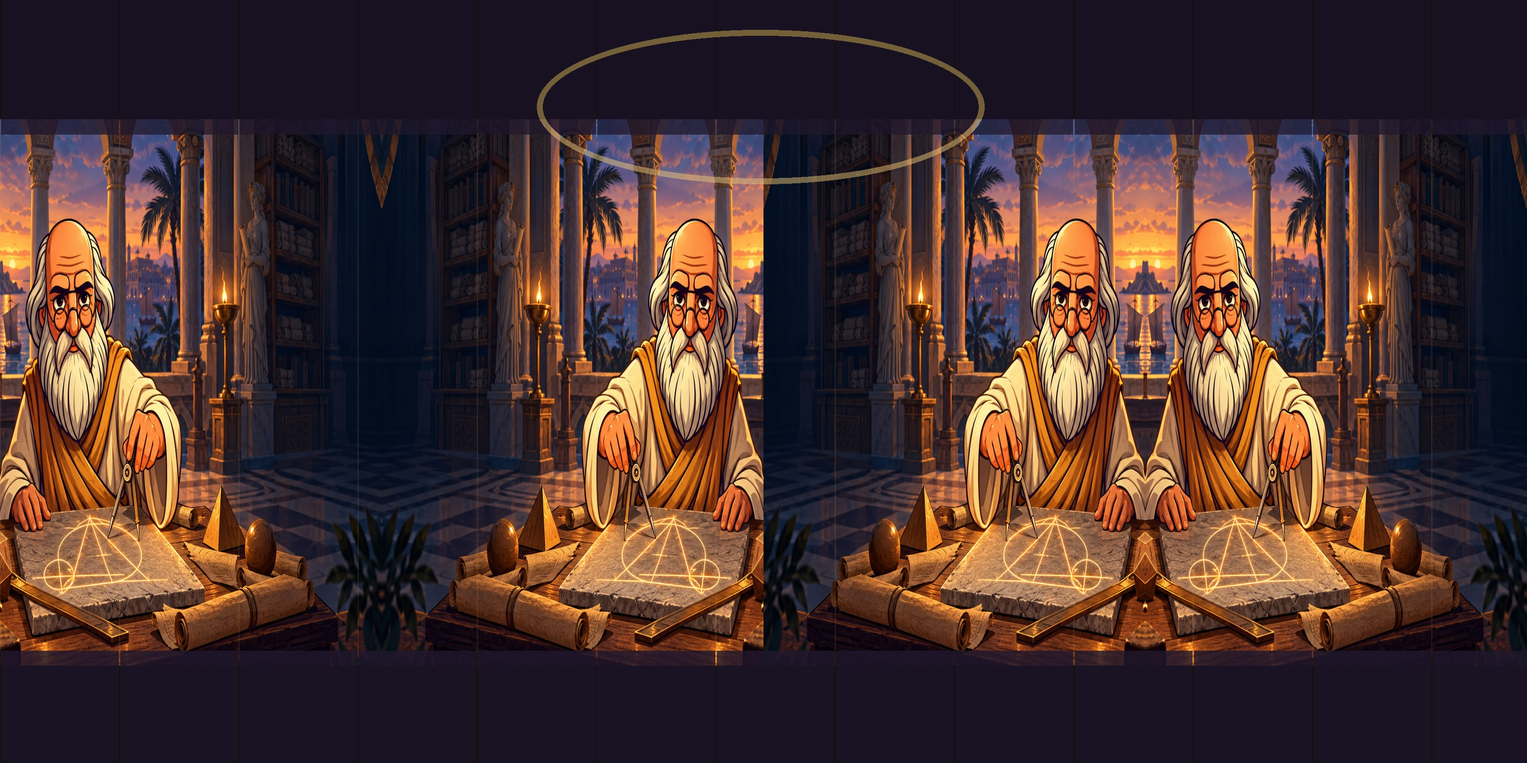
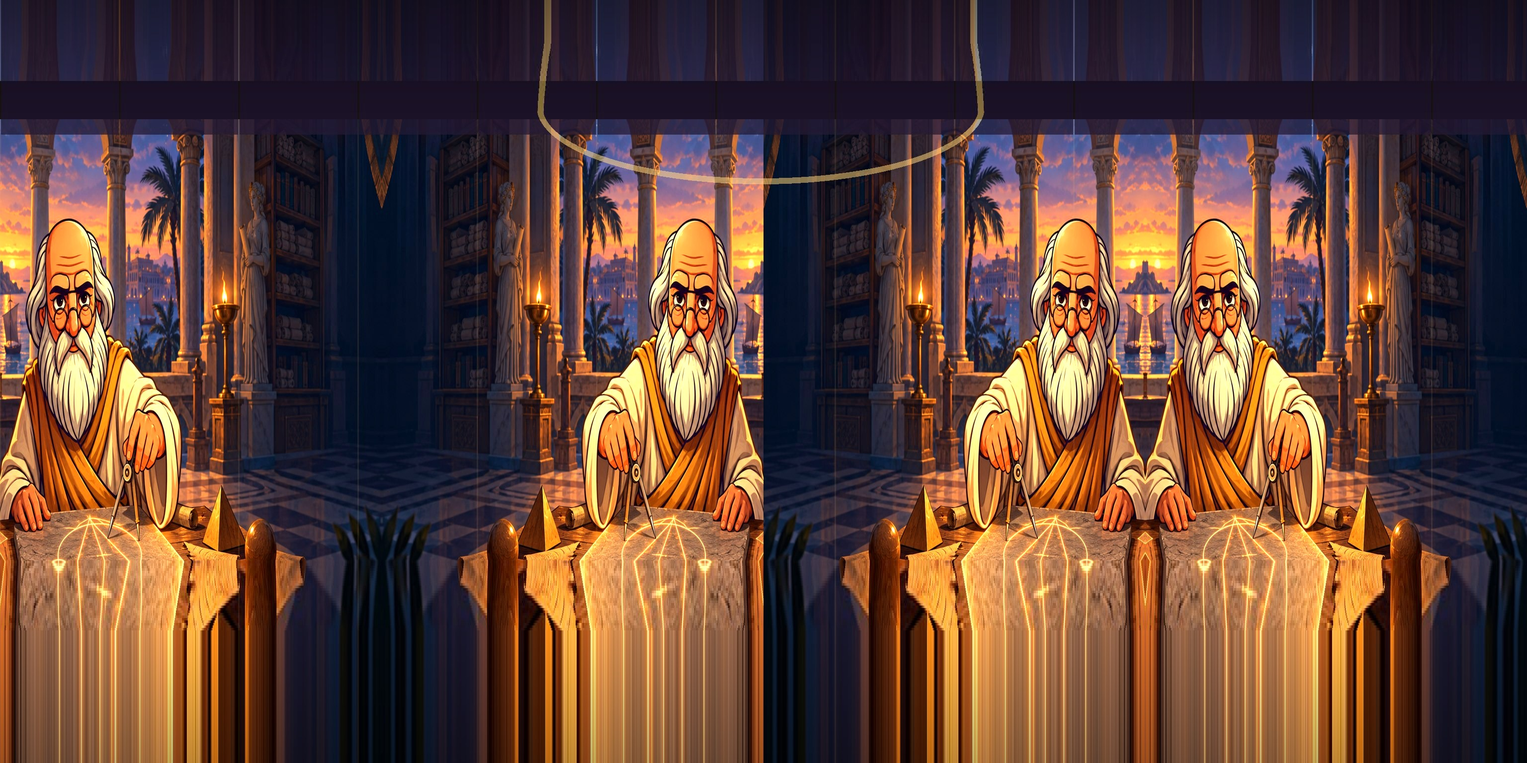
Add files via upload

diff --git a/app.js b/app.js
@@ -25,12 +25,22 @@ function escapeH(s){return String(s).replace(/[&<>"']/g,a=>({'&':'&amp;','<':'&l
 function videoId(v){if(!v)return '';if(/^[a-zA-Z0-9_-]{11}$/.test(v))return v;try{const u=new URL(v);if(u.hostname.includes('youtu.be'))return u.pathname.slice(1);if(u.hostname.includes('youtube.com'))return u.searchParams.get('v')||u.pathname.split('/').pop();}catch{}return ''}
 function playVideo(key,done){const id=videoId(C[key]);const title={video1:'Definizione e Teorema fondamentale',video2:'I numeri primi sono infiniti',video3:'Come si trovano i numeri primi',video4:'Eratostene: approfondimento',video5:'Secondo filmato di Eratostene',video6:'Multipli e divisori'}[key]||'Video';let body=id?`<h2>${title}</h2><iframe class="video" src="https://www.youtube-nocookie.com/embed/${encodeURIComponent(id)}?rel=0" title="${title}" allow="accelerometer; autoplay; encrypted-media; gyroscope; picture-in-picture" referrerpolicy="strict-origin-when-cross-origin" allowfullscreen></iframe><p>Chiudi con ✕ per tornare all’avventura.</p>`:`<div class="videoFallback"><h2>${title}</h2><p>Questo link YouTube non è ancora stato inserito nel file <code>config.js</code>.</p><p>In questa versione di montaggio puoi comunque esplorare la stanza successiva.</p></div>`;
 modal(body,{wide:true,close:()=>{if(done){watched[key]=true;render()}}});}
-function travel(next){if(changing||next<0||next>=scenes.length)return;changing=true;if(viewer){viewer.dispose();viewer=null}const t=$('#transition');t.classList.remove('hide');setTimeout(()=>{index=next;render()},1220);setTimeout(()=>{t.classList.add('hide');changing=false},2280)}
+function travel(next){if(changing||next<0||next>=scenes.length)return;changing=true;if(viewer){viewer.dispose();viewer=null}const t=$('#transition');const flight=t.querySelector('.flight');const scene=scenes[next];flight.style.backgroundImage=scene.bg?`url('${A+scene.bg}')`: `url('${A}atrio-primi.png')`;t.classList.remove('hide');setTimeout(()=>{index=next;render()},1450);setTimeout(()=>{t.classList.add('hide');changing=false},2600)}
 function render(){visited.add(index);let s=scenes[index];$('#stageLabel').textContent=s.name;$('#progress').textContent=`✦ ${visited.size} / ${scenes.length}`;stage.innerHTML='';if(s.kind==='video')renderVideoScene(s);else if(s.kind==='pano')renderPanoScene(s);else if(s.kind==='embed')renderEmbed();else renderFinal();}
-function renderVideoScene(s){let root=el('section','scene');root.style.backgroundImage=`url("${A+s.bg}")`;root.innerHTML=`<div class="intro"><h1>${escapeH(s.title)}</h1><p>${escapeH(s.desc)}</p><p><b>Obiettivi:</b> riconoscere primi e composti, comprendere la scomposizione unica in fattori primi e le relazioni tra multipli e divisori.</p></div>`;let wrap=el('div','portal-wrap'),isWatched=!!watched[s.video],p=el('button','portal');p.setAttribute('aria-label',isWatched?'Attraversa il portale':'Apri la lezione video');p.innerHTML=`<span class="preview" style="background-image:url('${A+(isWatched?s.preview:s.bg)}')"></span><span class="playmark">${isWatched?'✧':'▶'}</span>`;p.onclick=()=>isWatched?travel(index+1):playVideo(s.video,true);wrap.append(p,el('div','portal-label',isWatched?'✦ Attraversa il portale • entra nella stanza':'▶ Tocca il cerchio per guardare la lezione'));root.append(wrap);let aside=el('div','side-actions');aside.append(el('div','notice',isWatched?'Hai aperto la lezione. Ora il portale mostra la stanza successiva.':'Guarda il video, chiudilo con ✕ e torna al cerchio trasformato in portale.'));aside.append(btn('Riapri il video',()=>playVideo(s.video,true),'btn alt'));root.append(aside);stage.append(root)}
+function renderVideoScene(s){let root=el('section','scene');root.style.backgroundImage=`url("${A+s.bg}")`;
+const intro=el('div','intro');intro.innerHTML=`<button class="intro-close" aria-label="Chiudi obiettivi">×</button><h1>${escapeH(s.title)}</h1><p>${escapeH(s.desc)}</p><p><strong>OBIETTIVO:</strong> comprendere i numeri primi, la scomposizione e le relazioni tra multipli e divisori.</p><p><strong>DA SAPERE:</strong> definizione di numero primo ed enunciato del Teorema fondamentale dell’aritmetica.</p>`;
+const tab=btn('ⓘ Obiettivi',()=>{intro.classList.remove('hide');tab.classList.add('hide')},'intro-reopen hide');
+intro.querySelector('.intro-close').onclick=()=>{intro.classList.add('hide');tab.classList.remove('hide')};root.append(intro,tab);
+let wrap=el('div','portal-wrap'),isWatched=!!watched[s.video],p=el('button','portal');p.setAttribute('aria-label',isWatched?'Attraversa il portale':'Apri la lezione video');p.innerHTML=`<span class="preview" style="background-image:url('${A+(isWatched?s.preview:s.bg)}')"></span><span class="playmark">${isWatched?'✧':'▶'}</span>`;p.onclick=()=>isWatched?travel(index+1):playVideo(s.video,true);wrap.append(p,el('div','portal-label',isWatched?'✦ Clicca per entrare nella stanza':'▶ Clicca per guardare la lezione'));root.append(wrap);let aside=el('div','side-actions');aside.append(btn('Riapri il video',()=>playVideo(s.video,true),'btn alt'));root.append(aside);stage.append(root)}
+
 const factText=n=>n<2?'Non ho una scomposizione in fattori primi.':`Sono ${factor(n).join(' × ')}.`;
 function makeMarkers(group){if(group==='primes'){
-const p=[1,2,3,5,7,11,13,17,19,23],c=[4,6,8,9,10,15,16,18,20];return [...p.map((n,i)=>({label:n,lon:-165+i*34,lat:5+(i%3)*-11,type:'prime',text:n===1?'Sono 1: non sono né primo né composto.':n===2?'Sono 2: l’unico numero primo pari.':n===3?'Sono 3: il più piccolo primo dispari.':`Sono ${n}: sono divisibile soltanto per 1 e per me stesso.`})),...c.map((n,i)=>({label:n,lon:-152+i*38,lat:-24-(i%2)*12,type:'comp',text:`Sono ${n}: ${factText(n)} Sono composto perché ho più di due divisori positivi.`}))]}
+// Coordinates of actual characters in panorama-primi.jpg, 2048 × 1024. Interactive targets are invisible overlays, not separate numbered pills.
+const xy=[
+[1,222,532],[2,371,477],[3,431,484],[5,521,478],[7,385,346],[11,434,386],[13,475,393],[17,424,322],[19,370,418],[23,515,404],
+[4,813,382],[6,846,388],[8,1278,371],[9,1303,480],[10,789,482],[15,791,536],[16,1329,540],[18,1310,412],[20,1351,480]];
+const texts={1:'Sono 1: non sono né primo né composto.',2:'Sono 2, l’unico numero primo pari.',3:'Sono 3, il più piccolo primo dispari.'};
+return xy.map(([n,x,y])=>({label:String(n),lon:90-x/2048*360,lat:90-y/1024*180,type:'numberhit',text:texts[n]||(prime(n)?`Sono ${n}: ho esattamente due divisori positivi, 1 e me stesso.`:`Sono ${n}: ${factText(n)} Sono composto, perché ho più di due divisori positivi.`)}));}
 if(group==='euclid')return [
 {label:'✦',lon:-56,lat:3,text:'Euclide scrisse gli Elementi. Nel libro IX si trova una dimostrazione dell’infinità dei numeri primi.'},
 {label:'∞',lon:-20,lat:0,text:'I numeri primi sono infiniti: nessun elenco finito può contenerli tutti.'},
@@ -49,17 +59,17 @@ return [
 {label:24,lon:68,lat:8,text:'Sono 24: sono multiplo di 6, 8 e 12. Sono divisore di 48.'},
 {label:1,lon:110,lat:8,text:'Sono 1: divisore di ogni numero naturale positivo, ma non sono primo né composto.'},
 {label:9,lon:155,lat:9,text:'Sono 9: sono multiplo di 3 e divisore di 18, 27 e 36.'}];}
-class Pano{constructor(node,file){this.node=node;this.node.innerHTML='';this.scene=new THREE.Scene();this.camera=new THREE.PerspectiveCamera(72,node.clientWidth/node.clientHeight,1,1100);this.renderer=new THREE.WebGLRenderer({antialias:true});this.renderer.setPixelRatio(Math.min(devicePixelRatio||1,2));this.renderer.setSize(node.clientWidth,node.clientHeight);node.append(this.renderer.domElement);this.lon=0;this.lat=0;this.drag=false;this.fov=72;this.markerObjects=[];this.listeners=[];let geo=new THREE.SphereGeometry(500,64,44);geo.scale(-1,1,1);this.mat=new THREE.MeshBasicMaterial({color:0x101835});this.sphere=new THREE.Mesh(geo,this.mat);this.scene.add(this.sphere);new THREE.TextureLoader().load(A+file,tex=>{if(this.dead){tex.dispose();return}this.mat.map=tex;this.mat.needsUpdate=true},undefined,()=>{this.node.insertAdjacentHTML('beforeend','<p>Immagine panoramica non caricata.</p>')});this.install();this.tick()}
+class Pano{constructor(node,file){this.node=node;this.node.innerHTML='';this.scene=new THREE.Scene();this.camera=new THREE.PerspectiveCamera(72,node.clientWidth/node.clientHeight,1,1100);this.renderer=new THREE.WebGLRenderer({antialias:true});this.renderer.outputEncoding=THREE.sRGBEncoding;this.renderer.setPixelRatio(Math.min(devicePixelRatio||1,2));this.renderer.setSize(node.clientWidth,node.clientHeight);node.append(this.renderer.domElement);this.lon=0;this.lat=0;this.drag=false;this.fov=72;this.markerObjects=[];this.listeners=[];let geo=new THREE.SphereGeometry(500,64,44);geo.scale(-1,1,1);this.mat=new THREE.MeshBasicMaterial({color:0x101835});this.sphere=new THREE.Mesh(geo,this.mat);this.scene.add(this.sphere);new THREE.TextureLoader().load(A+file,tex=>{if(this.dead){tex.dispose();return}tex.encoding=THREE.sRGBEncoding;this.mat.map=tex;this.mat.needsUpdate=true},undefined,()=>{this.node.insertAdjacentHTML('beforeend','<p>Immagine panoramica non caricata.</p>')});this.install();this.tick()}
 listen(node,event,fn,opts){node.addEventListener(event,fn,opts);this.listeners.push([node,event,fn,opts])}
 install(){const c=this.node;let old=null;this.listen(c,'pointerdown',e=>{if(e.target.closest('button'))return;this.drag=true;old=[e.clientX,e.clientY];c.classList.add('dragging');c.setPointerCapture(e.pointerId)});this.listen(c,'pointermove',e=>{if(!this.drag||!old)return;let dx=e.clientX-old[0],dy=e.clientY-old[1];this.lon-=dx*.13;this.lat=Math.max(-60,Math.min(60,this.lat+dy*.13));old=[e.clientX,e.clientY]});this.listen(c,'pointerup',()=>{this.drag=false;old=null;c.classList.remove('dragging')});this.listen(c,'wheel',e=>{e.preventDefault();this.fov=Math.max(32,Math.min(98,this.fov+e.deltaY*.05));this.camera.fov=this.fov;this.camera.updateProjectionMatrix()},{passive:false});this.ro=new ResizeObserver(()=>{if(this.dead)return;let w=c.clientWidth,h=c.clientHeight;if(w&&h){this.camera.aspect=w/h;this.camera.updateProjectionMatrix();this.renderer.setSize(w,h)}});this.ro.observe(c)}
-markers(items,onClick){this.markerObjects=items.map((item)=>{const b=btn(String(item.label),()=>onClick(item),'pano-marker '+(item.type||'info'));b.setAttribute('aria-label','Esplora: '+item.label);this.node.append(b);return {item,b}})}
+markers(items,onClick){this.markerObjects=items.map((item)=>{const b=btn(item.type==='numberhit'?'':String(item.label),()=>onClick(item),'pano-marker '+(item.type||'info'));b.setAttribute('aria-label','Esplora: '+item.label);this.node.append(b);return {item,b}})}
 tick(){if(this.dead)return;let phi=THREE.MathUtils.degToRad(90-this.lat),theta=THREE.MathUtils.degToRad(this.lon);this.camera.lookAt(new THREE.Vector3(500*Math.sin(phi)*Math.cos(theta),500*Math.cos(phi),500*Math.sin(phi)*Math.sin(theta)));this.camera.updateMatrixWorld();let w=this.node.clientWidth,h=this.node.clientHeight;for(const {item,b} of this.markerObjects){let p=THREE.MathUtils.degToRad(90-(item.lat||0)),t=THREE.MathUtils.degToRad(item.lon);const v=new THREE.Vector3(490*Math.sin(p)*Math.cos(t),490*Math.cos(p),490*Math.sin(p)*Math.sin(t));const cam=v.clone().applyMatrix4(this.camera.matrixWorldInverse);if(cam.z>=0){b.style.display='none';continue}v.project(this.camera);if(Math.abs(v.x)>1.07||Math.abs(v.y)>1.08){b.style.display='none';continue}b.style.display='block';b.style.left=((v.x+1)*.5*w)+'px';b.style.top=((-v.y+1)*.5*h)+'px'}this.renderer.render(this.scene,this.camera);this.raf=requestAnimationFrame(()=>this.tick())}
 zoom(d){this.fov=Math.max(32,Math.min(98,this.fov+d));this.camera.fov=this.fov;this.camera.updateProjectionMatrix()}
 dispose(){this.dead=true;cancelAnimationFrame(this.raf);this.ro?.disconnect();this.listeners.forEach(([n,e,f,o])=>n.removeEventListener(e,f,o));this.mat.map?.dispose();this.mat.dispose();this.sphere.geometry.dispose();this.renderer.dispose();this.renderer.domElement.remove()}}
-function renderPanoScene(s){const node=el('div','pano');stage.append(node);if(!window.THREE){node.innerHTML=`<div class="scene" style="background-image:url('${A+s.bg}')"><div class="intro"><h2>Impossibile caricare il visore 360°</h2><p>Serve la libreria Three.js e una connessione a Internet.</p></div></div>`;return}viewer=new Pano(node,s.bg);const hint=el('div','pano-hint','Trascina per esplorare · scorri/pizzica per zoomare · clicca i simboli');node.append(hint);setTimeout(()=>hint.remove(),7000);
+function renderPanoScene(s){const node=el('div','pano');stage.append(node);if(!window.THREE){node.innerHTML=`<div class="scene" style="background-image:url('${A+s.bg}')"><div class="intro"><h2>Impossibile caricare il visore 360°</h2><p>Serve la libreria Three.js e una connessione a Internet.</p></div></div>`;return}viewer=new Pano(node,s.bg);const hint=el('div','pano-hint','Trascina per esplorare · clicca direttamente sui numeri · scorri per zoomare');node.append(hint);setTimeout(()=>hint.remove(),7000);
 const markers=makeMarkers(s.group);const panel=el('div','pano-panel',`<h2>${escapeH(s.title)}</h2><p id="factInfo">Sposta lo sguardo e scopri gli hotspot nascosti nella scena.</p>`);node.append(panel);viewer.markers(markers,item=>{const p=$('#factInfo');if(p)p.textContent=item.text});const controls=el('div','pano-controls');node.append(controls);controls.append(btn('＋ Zoom',()=>viewer.zoom(-10),'mini'),btn('－ Zoom',()=>viewer.zoom(10),'mini'));
 if(s.group==='eratosthenes'){controls.append(btn('▶ Video Eratostene',()=>playVideo('video4'),'mini'));if(C.video5)controls.append(btn('▶ Secondo video',()=>playVideo('video5'),'mini'))}
-if(s.quiz){controls.append(btn(quizPassed[index]?'✓ Quiz superato · prosegui':'✦ Affronta 5 quesiti',()=>quizPassed[index]?travel(index+1):startQuiz(s.quiz,5,3,()=>{quizPassed[index]=true;travel(index+1)}),'btn'));}else controls.append(btn('✧ Attraversa il passaggio',()=>travel(index+1),'btn'));
+if(s.quiz){controls.append(btn(quizPassed[index]?'✓ Quiz superato · prosegui':'✦ Affronta 5 quesiti',()=>quizPassed[index]?travel(index+1):startQuiz(s.quiz,5,3,()=>{quizPassed[index]=true;travel(index+1)}),'btn'));}else if(s.group==='euclid'){controls.append(btn('➜ Verso il castello di Arsinoe',()=>travel(4),'btn'));}else if(s.group==='eratosthenes'){controls.append(btn('➜ Entra nel crivello interattivo',()=>travel(6),'btn'));}else controls.append(btn('✧ Prosegui',()=>travel(index+1),'btn'));
 }
 function renderEmbed(){let root=el('div','scene');root.innerHTML=`<div class="intro" style="top:63px;max-width:none"><h2>Il crivello di Eratostene</h2><p>Sperimenta: quali numeri restano quando elimini progressivamente i multipli?</p></div><iframe id="crivello" class="embed embedScene" title="Crivello Matica" loading="eager" src="${escapeH(C.crivello)}"></iframe>`;let bar=el('div','embedToolbar');bar.append(btn('Apri in un’altra scheda',()=>window.open(C.crivello,'_blank','noopener'),'btn alt'));bar.append(btn('✧ Ho esplorato il crivello · prosegui',()=>travel(index+1)));root.append(bar);stage.append(root)}
 function createPrimeQuiz(){const nums=shuffle(Array.from({length:30},(_,i)=>i+1));let selected=nums.slice(0,5);if(!selected.includes(1)&&Math.random()<.5)selected[0]=1;return selected.map((n,i)=>{if(n===1||prime(n)||i%2===0)return {type:'choice',text:`Il numero ${n} è…`,choices:['Primo','Composto','Né primo né composto'],correct:n===1?2:prime(n)?0:1,explanation:n===1?'1 ha un solo divisore positivo.':prime(n)?`${n} ha esattamente due divisori positivi.`:`${n} = ${factor(n).join(' × ')}.`};return {type:'factors',text:`Scomponi ${n} in fattori primi. Scrivi per esempio 2×3×3.`,n,explanation:`${n} = ${factor(n).join(' × ')}. L’ordine dei fattori non conta.`}})}

diff --git a/style.css b/style.css
@@ -1,1 +1,19 @@
 :root{--gold:#ffd88b;--navy:#080f29;--ink:#fef3d4;--glass:rgba(10,15,39,.82)}*{box-sizing:border-box}html,body{height:100%;margin:0}body{font-family:Trebuchet MS,Segoe UI,sans-serif;color:var(--ink);background:var(--navy);overflow:hidden}button,input{font:inherit}button{cursor:pointer}button:disabled{opacity:.46;cursor:not-allowed}.hide{display:none!important}.top{height:58px;position:absolute;z-index:8;top:0;left:0;right:0;display:flex;justify-content:space-between;align-items:center;padding:0 22px;background:linear-gradient(#050919e8,#05091988);gap:8px}.brand{color:var(--gold);font-weight:900;letter-spacing:.12em;white-space:nowrap}.brand small{font-size:.7em;color:#fff;letter-spacing:.06em;margin-left:12px}.hud{display:flex;gap:15px;align-items:center;font-size:12px}#stageLabel{max-width:250px;white-space:nowrap;overflow:hidden;text-overflow:ellipsis}.iconbtn{border:1px solid #ffffff55;color:white;background:#1924499c;border-radius:50%;width:32px;height:32px}.linkbtn{border:0;background:none;color:#ffdfac;text-decoration:underline}footer{height:32px;position:absolute;z-index:8;bottom:0;left:0;right:0;display:flex;justify-content:space-between;align-items:center;padding:0 20px;font-size:11px;color:#fff9;background:#0306138a}#stage{height:100dvh;position:relative;overflow:hidden}.scene{position:absolute;inset:0;background-position:center;background-size:cover;background-color:#172245;isolation:isolate;animation:sceneIn .8s ease both}.scene::before{content:"";position:absolute;inset:0;background:linear-gradient(0deg,#060b22b8,transparent 32%,#05091955);z-index:-1}.intro{position:absolute;top:10%;left:4%;max-width:340px;padding:18px 20px;border:1px solid #ffdc9b88;background:var(--glass);border-radius:15px;box-shadow:0 8px 35px #0008;line-height:1.5}.intro h1,.intro h2{margin:.1em 0;color:#ffe09e}.intro p{margin:.5em 0;font-size:14px}.intro ul{font-size:13px;padding-left:22px}.portal-wrap{position:absolute;left:50%;top:54%;transform:translate(-50%,-50%);text-align:center;max-width:320px}.portal{width:min(26vw,240px);min-width:132px;aspect-ratio:1;border-radius:50%;border:11px ridge #ffc86c;box-shadow:0 0 0 3px #71461c,0 0 26px #ffd993,0 0 90px #e8a85b;position:relative;overflow:hidden;display:block;margin:auto;transition:transform .35s,filter .35s;background:#0a1439;color:white}.portal:not(:disabled):hover{transform:scale(1.08);filter:brightness(1.3)}.portal:before{content:"";position:absolute;inset:0;background:linear-gradient(110deg,#ffffff66,transparent 40%,#ffffff23);z-index:2;pointer-events:none}.portal .preview{position:absolute;inset:0;background-size:cover;background-position:center;filter:saturate(1.25)}.portal .playmark{position:absolute;top:50%;left:50%;transform:translate(-50%,-50%);font-size:57px;text-shadow:0 3px 14px #000}.portal-label{background:#08132de8;padding:9px 13px;border:1px solid #eec983;border-radius:22px;margin:18px auto 0;display:table;box-shadow:0 5px 22px #0009;font-size:14px}.side-actions{position:absolute;right:20px;bottom:54px;display:flex;flex-direction:column;align-items:end;gap:8px}.btn{border:1px solid #f8d391;background:linear-gradient(#936431,#432b1c);color:#fff9e6;padding:10px 17px;border-radius:12px;box-shadow:0 4px 12px #0008;font-weight:700}.btn:hover:not(:disabled){filter:brightness(1.18)}.btn.alt{background:#122b5bdc}.notice{max-width:360px;background:#09132bdc;border:1px solid #ffd88b66;border-radius:12px;padding:11px 16px;font-size:13px;line-height:1.4}.pano{position:absolute;inset:0;touch-action:none;cursor:grab}.pano canvas{display:block;width:100%;height:100%}.pano.dragging{cursor:grabbing}.pano-hint{position:absolute;top:68px;left:50%;transform:translateX(-50%);background:#07112dc9;padding:8px 15px;border-radius:24px;z-index:2;font-size:12px;pointer-events:none}.pano-marker{position:absolute;transform:translate(-50%,-50%);z-index:3;min-width:48px;min-height:48px;padding:5px 9px;border-radius:15px;background:linear-gradient(145deg,#367ac9,#112d76);border:2px solid #b6e7ff;color:white;box-shadow:0 0 15px #8acbffba;font-size:25px;font-weight:900}.pano-marker.comp{background:linear-gradient(145deg,#c77842,#742f20);border-color:#ffe0a4;box-shadow:0 0 13px #ffb8709a}.pano-marker.info{font-size:19px;min-width:48px;background:#5a438c;border-color:#f7d2ff}.pano-marker:hover{transform:translate(-50%,-50%) scale(1.15)}.pano-panel{position:absolute;z-index:4;bottom:45px;left:15px;max-width:420px;background:#061027da;border:1px solid #fedb93a3;padding:14px 18px;border-radius:15px;line-height:1.45}.pano-panel h2{margin:0 0 4px;color:#ffdd9b;font-size:20px}.pano-panel p{margin:4px 0;font-size:13px}.pano-controls{position:absolute;right:15px;bottom:51px;z-index:4;display:flex;flex-direction:column;align-items:end;gap:7px}.mini{border:1px solid #ffd394;color:white;background:#081632dc;border-radius:10px;padding:8px 13px}.modal{position:absolute;inset:0;z-index:20;background:#010514db;display:flex;justify-content:center;align-items:center;padding:20px}.modalbox{position:relative;width:min(780px,96vw);max-height:88vh;overflow:auto;background:linear-gradient(145deg,#172248,#071128);border:2px solid #ffd789;border-radius:20px;padding:30px 24px;box-shadow:0 10px 80px #000}.modalbox.videoMode{width:min(1100px,98vw);padding:38px 12px 12px}.close{position:absolute;z-index:22;right:10px;top:7px;color:white;border:1px solid #fff6;background:#802b32;border-radius:50%;width:32px;height:32px}.video{width:100%;aspect-ratio:16/9;border:0;background:#000}.videoFallback{aspect-ratio:16/9;display:flex;flex-direction:column;justify-content:center;align-items:center;gap:14px;text-align:center;background:#0a1430;border:1px dashed #ffcf8a}.videoFallback code{color:#ffe4a5}.qcard h2{color:#ffe09b;margin-top:0}.qcount{font-size:13px;color:#ffdaa3}.answers{display:grid;gap:10px;margin:17px 0}.answer{padding:12px;text-align:left;background:#142a55;border:1px solid #8ba8d5;border-radius:10px;color:white}.answer.selected{background:#704b14;border-color:#ffde91}.qcard input[type=text]{width:100%;padding:13px;color:#fff;background:#07132c;border:1px solid #cda864;border-radius:9px}.feedback{font-size:14px;margin:12px 0;line-height:1.5;color:#ffe1ab}.transition{position:absolute;inset:0;z-index:30;overflow:hidden;pointer-events:none;background:#060d2b;animation:fadeout 2.25s both}.flight{position:absolute;inset:-35%;background:radial-gradient(circle at 50% 50%,#fff9cf 0,#ffd281 9%,#8751bc 30%,#09132e 61%,#020614 70%);animation:fly 2.25s cubic-bezier(.34,0,.44,1) both}.ring{position:absolute;left:50%;top:50%;transform:translate(-50%,-50%);font-size:250px;color:#ffffffaa;animation:spin 2.2s linear infinite}@keyframes fly{0%{transform:scale(.07);filter:blur(0)}55%{transform:scale(.5);filter:blur(1px)}100%{transform:scale(3);filter:blur(28px)}}@keyframes fadeout{0%{opacity:0}12%{opacity:.96}72%{opacity:1}100%{opacity:0}}@keyframes spin{to{transform:translate(-50%,-50%) rotate(180deg)}}@keyframes sceneIn{from{opacity:.6;transform:scale(1.07)}to{opacity:1;transform:scale(1)}}.embed{width:100%;height:100%;border:0;background:white}.embedScene{height:calc(100% - 108px);margin-top:58px}.embedToolbar{position:absolute;bottom:35px;width:100%;display:flex;justify-content:center;gap:10px}.certificate{width:min(800px,94vw);padding:22px;background:linear-gradient(#fff5d8,#f6db9c);color:#33220f;border:12px double #ad7c2d;text-align:center;margin:auto;box-shadow:0 20px 60px #0008}.certificate h1{font-family:Georgia,serif;font-size:clamp(22px,4vw,42px)}.certificate h2{font-size:30px}.certificate input{font-size:21px;text-align:center;background:#fff9e4;color:#33220f;border:1px solid #a47d40;padding:8px;width:90%}.certwrap{height:100%;overflow:auto;display:flex;flex-direction:column;align-items:center;justify-content:center;gap:9px;padding-top:65px;padding-bottom:40px}.certButtons{display:flex;gap:8px}.pill{background:#152c59;border:1px solid #f6d88d;padding:8px 14px;border-radius:18px}#finish{position:absolute;inset:0;background:radial-gradient(circle,#354e7a,#071024)}@media(max-width:750px){.brand small{display:none}.top{padding:0 9px}.hud{gap:6px}.intro{top:64px;left:3%;right:3%;max-width:none;padding:10px 13px}.intro p,.intro ul{font-size:12px;margin:4px 0}.intro h1{font-size:19px}.portal-wrap{top:60%}.portal{width:138px}.pano-panel{max-width:62vw;padding:9px}.pano-panel h2{font-size:15px}.pano-panel p{font-size:12px}.pano-marker{font-size:20px;min-width:39px;min-height:39px}.hud #stageLabel{display:none}.certwrap{justify-content:flex-start}.side-actions{bottom:40px}}@media print{body{background:#fff}#app>:not(#stage),.certButtons{display:none!important}#stage,#finish,.certwrap{position:static;height:auto;overflow:visible;background:#fff}.certificate{box-shadow:none;width:100%}}
+
+/* REVISIONE 02 — obiettivi leggibili, panorami luminosi, hotspot invisibili */
+.scene::before{background:linear-gradient(0deg,rgba(4,7,20,.43),transparent 22%,rgba(5,9,25,.08));}
+.intro{top:84px;left:24px;max-width:min(570px,calc(100vw - 48px));padding:25px 48px 25px 26px;background:rgba(8,19,47,.93);font-size:18px;z-index:5;line-height:1.52;box-shadow:0 10px 35px #0007;}
+.intro h1,.intro h2{font-size:clamp(25px,2.6vw,34px);line-height:1.2;margin-bottom:15px;}
+.intro p{font-size:clamp(16px,1.3vw,19px);line-height:1.5;}
+.intro-close{position:absolute;top:10px;right:11px;color:white;background:#ad4a49;border:1px solid #ffe0aa;border-radius:50%;width:33px;height:33px;font-size:26px;line-height:20px;}
+.intro-reopen{position:absolute;z-index:5;top:75px;left:20px;color:#fff;background:#112b55e8;border:1px solid #ffe09e;padding:10px 16px;border-radius:12px;font-weight:700;}
+.pano-marker.numberhit{background:transparent!important;border:0!important;box-shadow:none!important;color:transparent!important;outline:0;min-width:49px;min-height:51px;padding:0;border-radius:12px;}
+.pano-marker.numberhit:hover,.pano-marker.numberhit:focus-visible{background:rgba(255,232,142,.13)!important;outline:2px dashed #ffe4a4;transform:translate(-50%,-50%) scale(1.08);}
+.pano-panel{background:rgba(8,22,46,.89);border-color:#ffe0a7;}
+.pano-panel p{font-size:15px;}
+.transition{background:transparent;animation:fadeout 2.55s ease-in-out both;}
+.transition .flight{position:absolute;inset:-35%;border-radius:50%;background-position:center;background-size:cover;border:14px solid #ffe1a9;box-shadow:0 0 70px 30px #ffe0a9b0;animation:fly 2.55s cubic-bezier(.24,.03,.4,1) both;}
+.transition .ring{display:none;}
+@keyframes fly{0%{transform:scale(.035);filter:brightness(1.1) blur(0)}45%{transform:scale(.20);filter:brightness(1.15) blur(0)}78%{transform:scale(.72);filter:brightness(1.15) blur(1px)}100%{transform:scale(3);filter:brightness(1.3) blur(3px)}}
+@keyframes fadeout{0%{opacity:0}8%{opacity:1}75%{opacity:1}100%{opacity:0}}
+@media(max-width:750px){.intro{top:65px;left:8px;right:8px;max-width:none;padding:17px 42px 17px 18px;}.intro p{font-size:15px;}.intro h1{font-size:23px}.portal-wrap{top:62%;}.pano-panel p{font-size:13px;}}

diff --git a/config.js b/config.js
@@ -1,11 +1,11 @@
-/* Inserire solo gli ID YouTube o gli URL completi nei campi vuoti. */
+/* Video aggiornati; tutti i file sono nella root del repository. */
 window.MATICA_CONFIG = {
-  video1: '', // Definizione di numero primo + Teorema fondamentale dell'aritmetica
-  video2: '', // Quanti sono i numeri primi? Dimostrazione di Euclide
-  video3: '', // Come si trovano i numeri primi?
-  video4: 'https://youtu.be/huQlt7OHAg4', // Video fornito per stanza Eratostene
-  video5: '', // Secondo video eventuale nella stanza di Eratostene
-  video6: '', // Multipli e divisori
+  video1: 'https://youtu.be/zSCiV9oczSg', // Numeri primi: chi sono?
+  video2: 'https://youtu.be/T_9zfw_NRkc', // Quanti sono? Euclide
+  video3: 'https://youtu.be/d5IdHKKQshc', // Come si trovano? Crivello
+  video4: 'https://youtu.be/huQlt7OHAg4', // Approfondimento Eratostene già fornito
+  video5: '', // Eventuale secondo video nella stanza di Eratostene
+  video6: 'https://youtu.be/tS86M_fq8WI', // Multipli e divisori
   crivello: 'https://crivello-matica.netlify.app/',
   email: 'claudiabartoli77@libero.it'
 };
